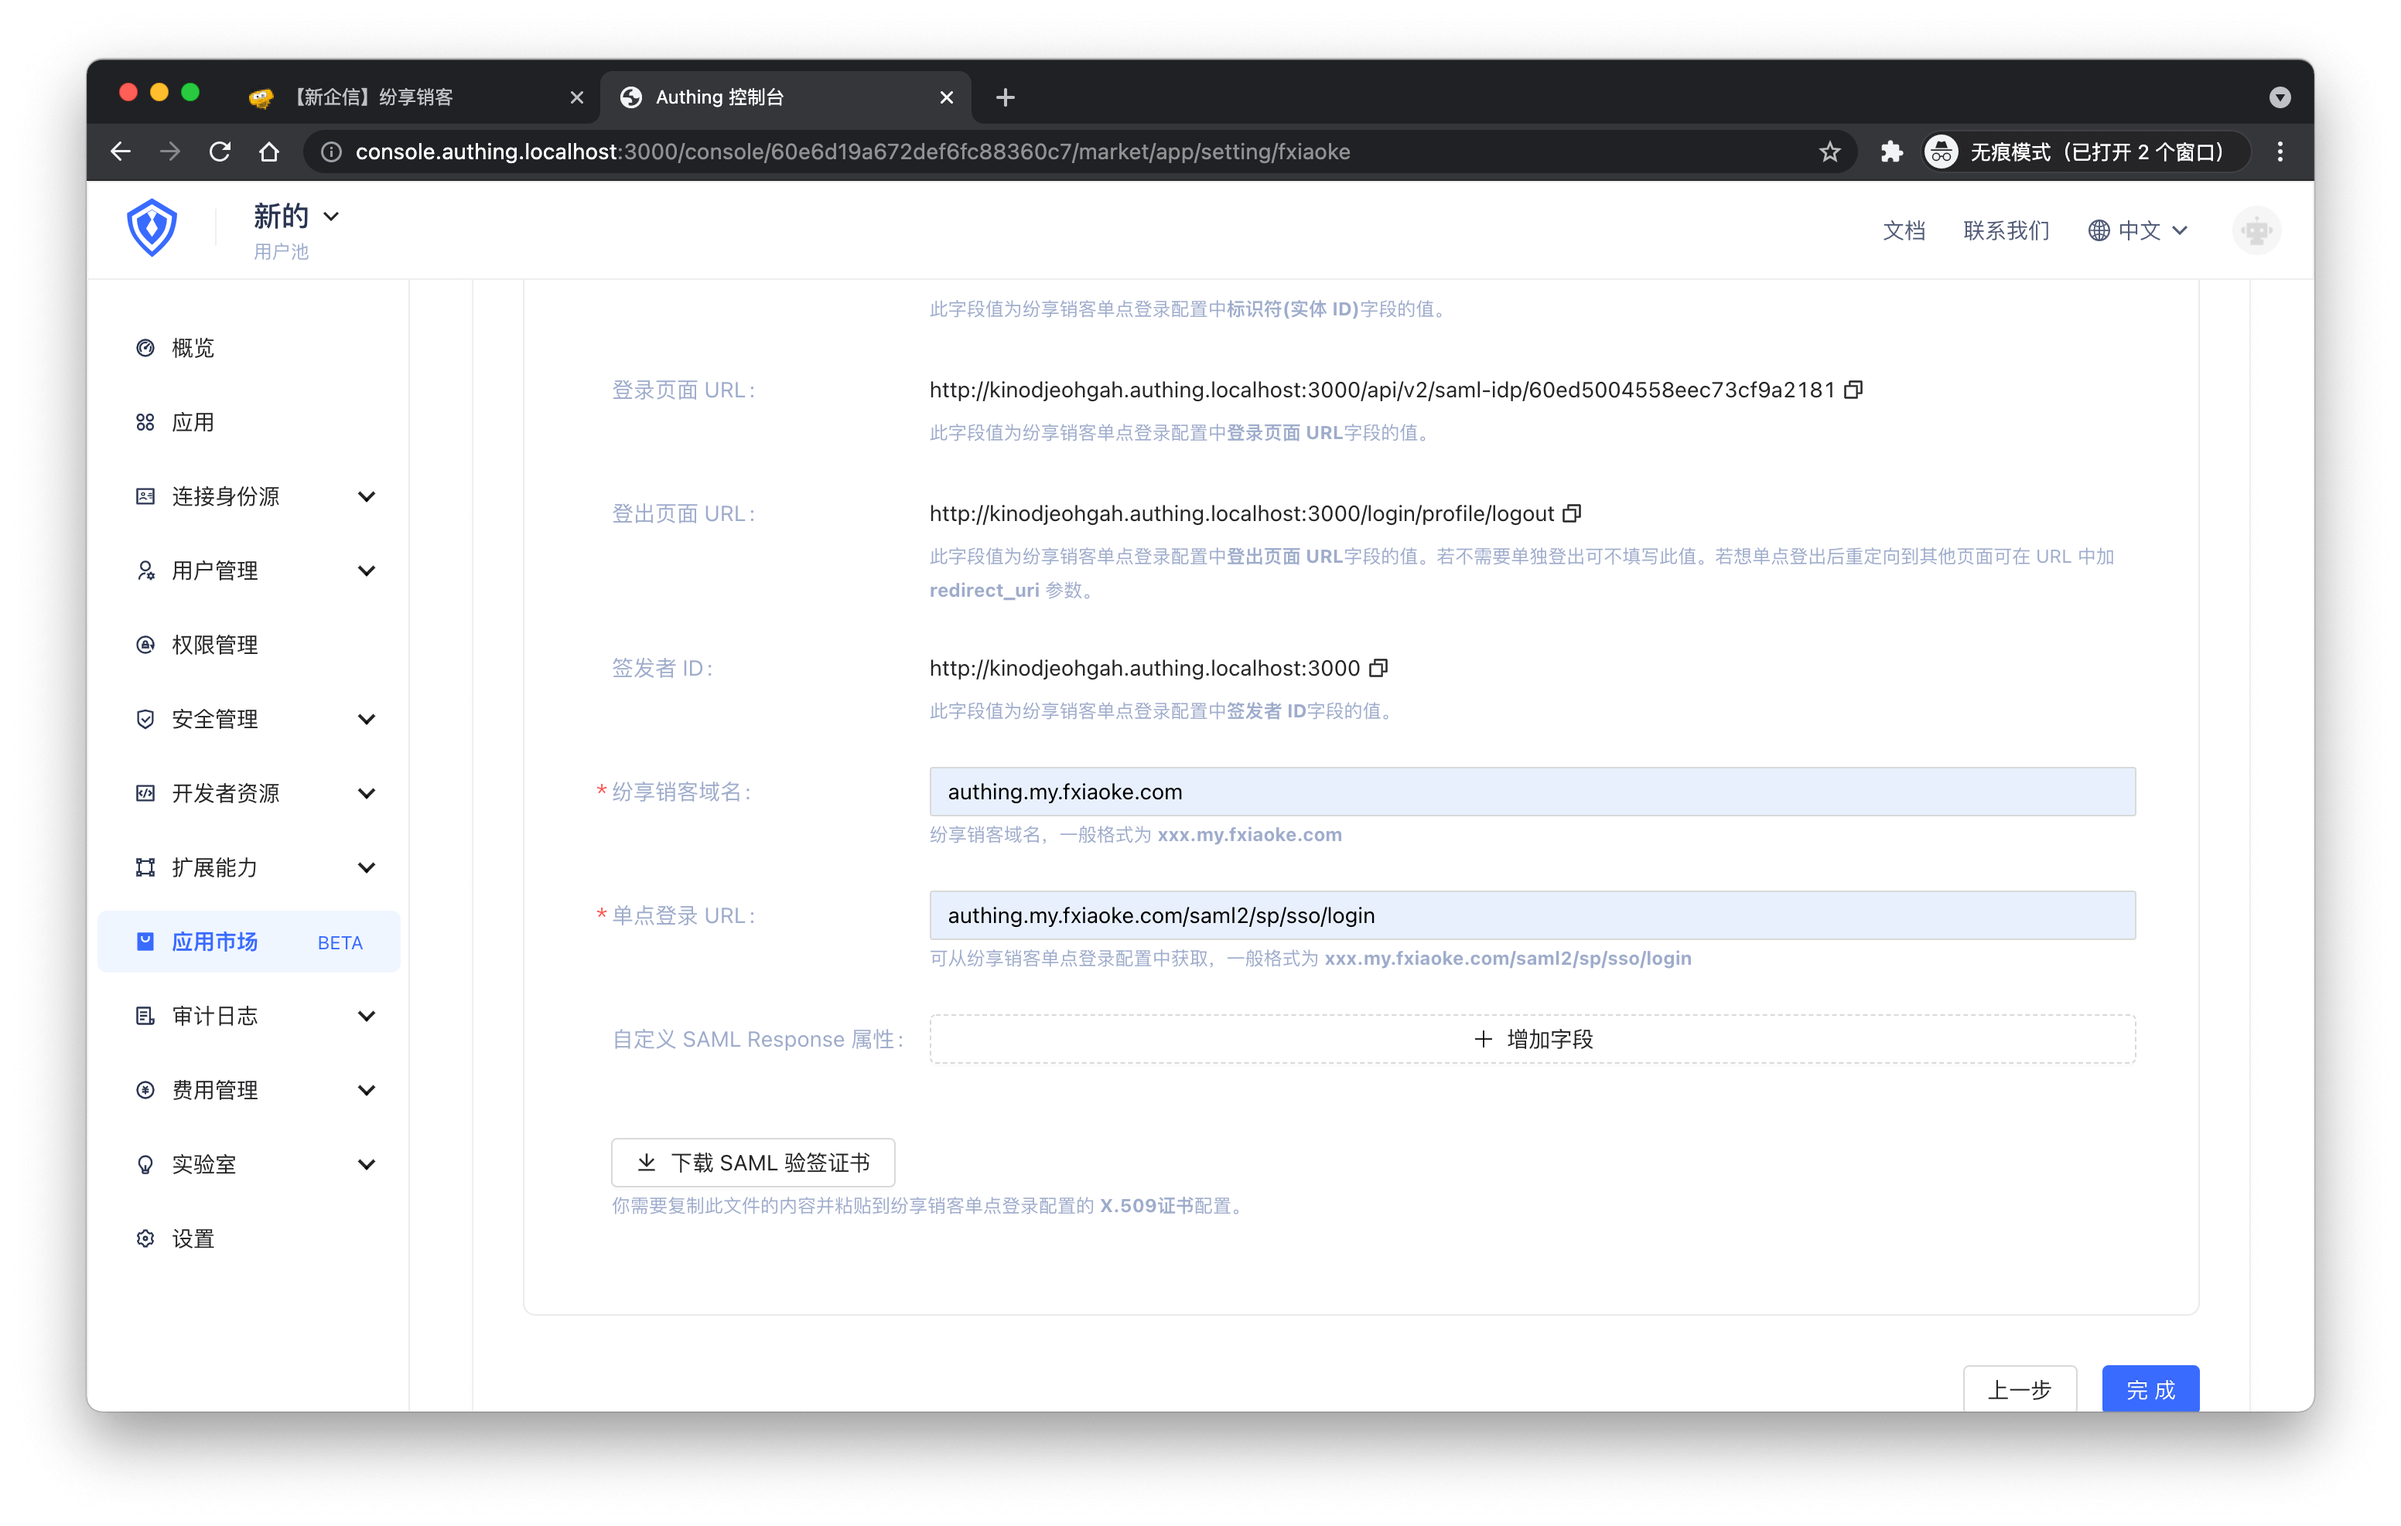
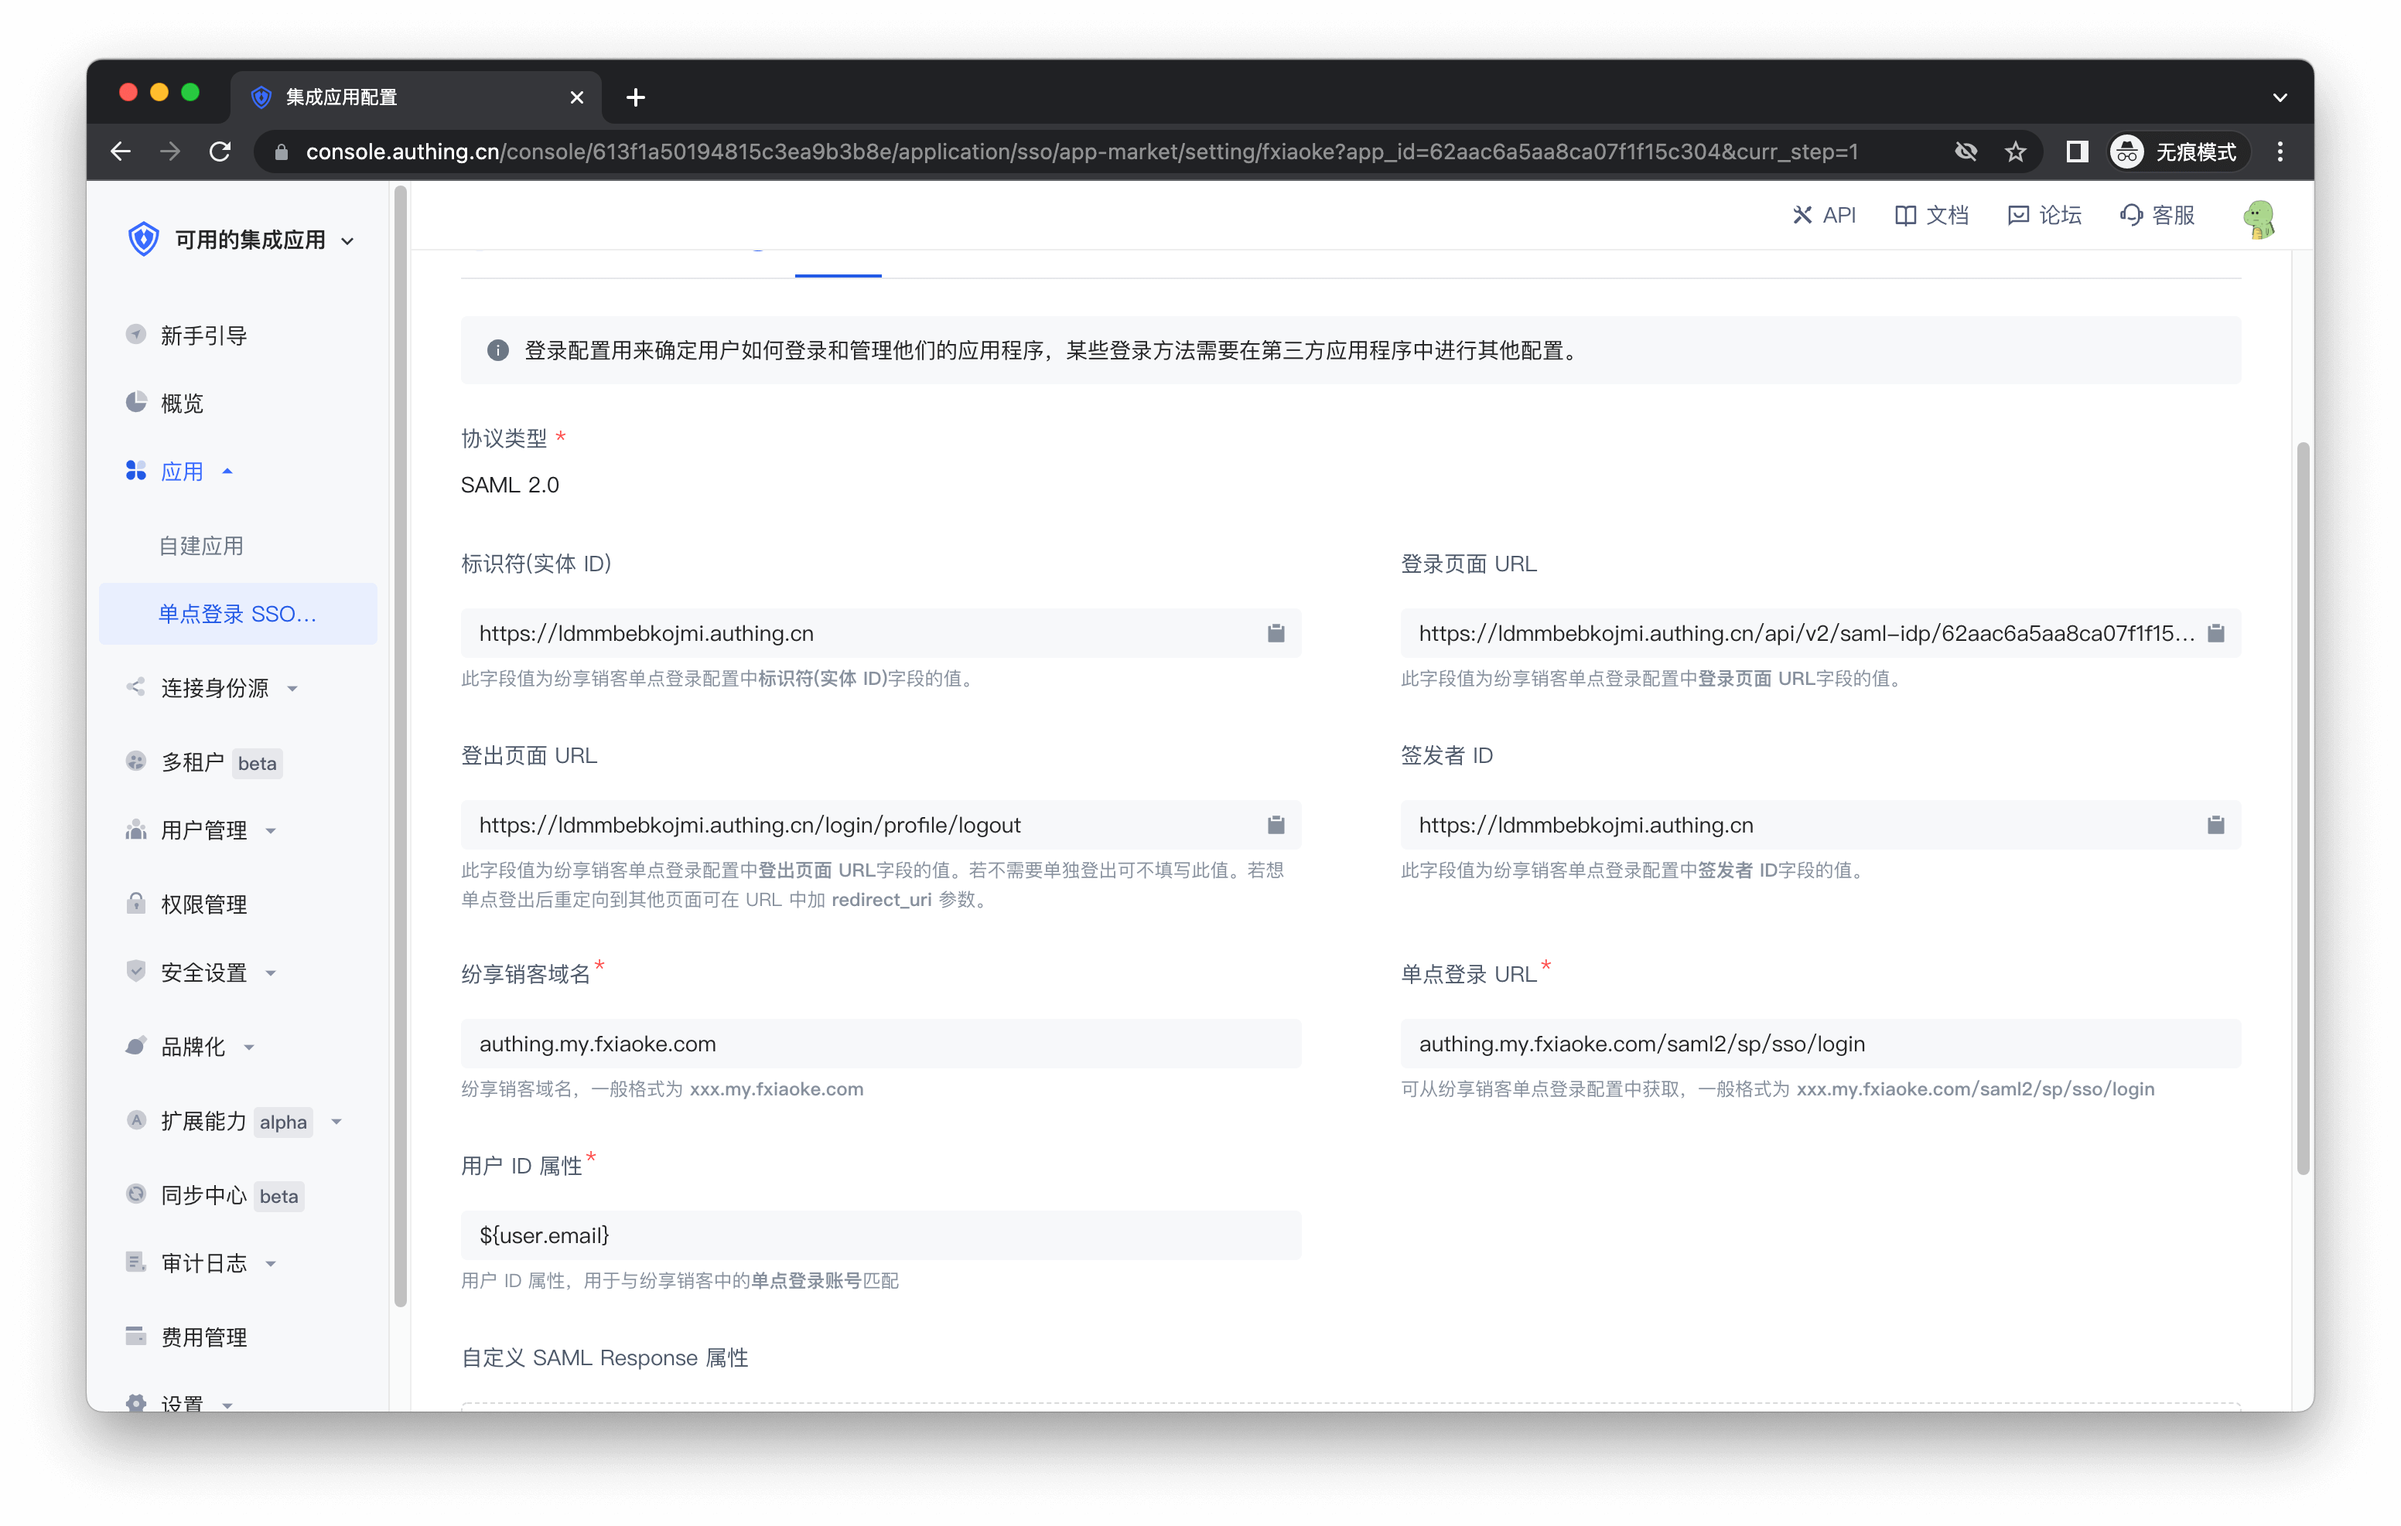
fix: 完善纷享销客文档

diff --git a/docs/integration/fxiaoke/1.md b/docs/integration/fxiaoke/1.md
@@ -20,3 +20,11 @@
 点击保存即可。
 
 </IntegrationDetailCard>
+
+<IntegrationDetailCard title="为纷享销客人员设置单点登录账号">
+
+在纷享销客中编辑员工信息，填写**单点登录账号**，与第一步的**用户 ID 属性**映射，若**用户 ID 属性**为 `${user.email}`，则此处填写对应员工的邮箱，若为 `${user.phone}`，则此处填写对应员工的手机号，依次类推。
+
+![](~@imagesZhCn/integration/fxiaoke/2-4.png)
+
+</IntegrationDetailCard>

diff --git a/docs/integration/fxiaoke/0.md b/docs/integration/fxiaoke/0.md
@@ -22,6 +22,7 @@
 
 - 输入纷享销客域名，即上一步申请的域名。
 - 输入单点登录 URL，即上一步复制的**单点登录 URL**。
+- 输入用户 ID 属性，此属性用于与纷享销客的账号作映射，后续在纷享销客中也需要配置，默认为 `${user.email}`。
 
 点击完成。
 
